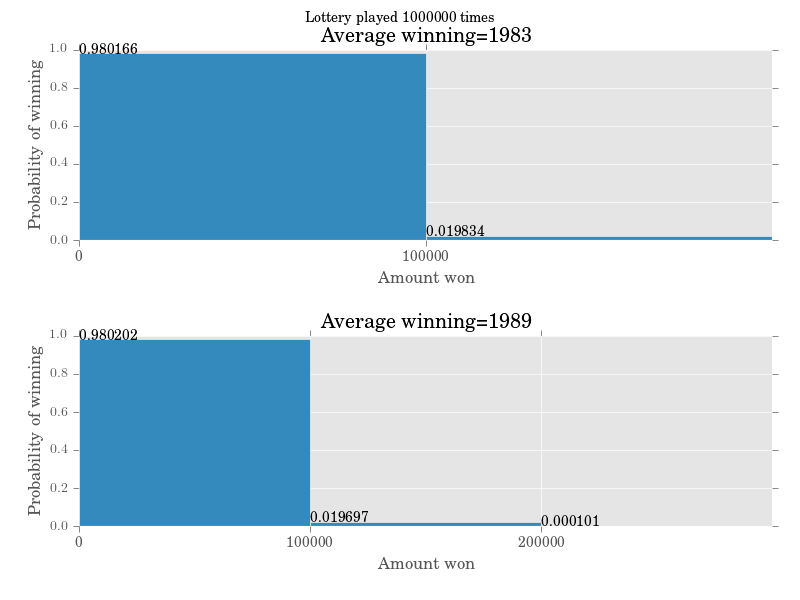
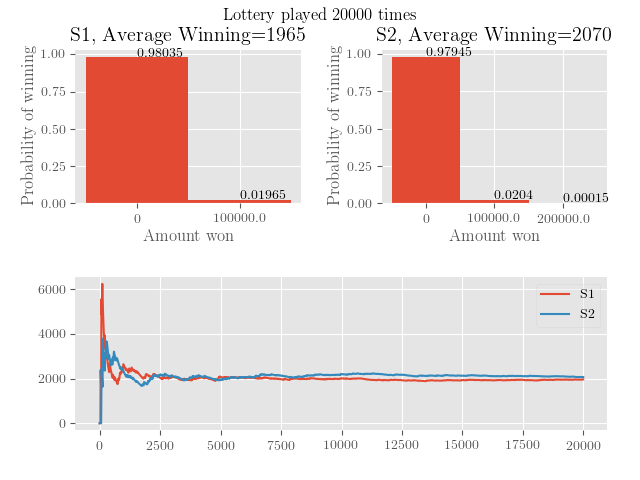
Updated.
Former-commit-id: cbf30d0710264cba28b5ddc5e854456551dec186
Former-commit-id: 6fe81443279d69d61093c123c6291625df427a49

diff --git a/TASHIP/InformationTheory2017/Tutorial1/lotteries.py b/TASHIP/InformationTheory2017/Tutorial1/lotteries.py
@@ -31,34 +31,45 @@ import numpy as np
 from collections import Counter
 
 nTickets = 100
+meanA, meanB = [0.0], [0.0]
 
-def playA( ):
+def playA( i ):
+    global meanA
     p = 1.0 / nTickets
     win = 0
     # Two tickets in the same lottery.
     for i in range( 2 ):
         if random.random( ) < p:
-            win += 100000
+            win += 100000.0
             break
+
+    meanA.append( ( i * meanA[-1] + win ) / (i+1.0) )
     return win 
 
-def playB( ):
+def playB( i ):
+    global meanB
     p = 1.0 / nTickets
     win = 0
     # Two tickets in the different lottery.
     for i in range( 2 ):
         if random.random( ) < p:
-            win += 100000
+            win += 100000.0
+
+    meanB.append( ( i * meanB[-1] + win ) / (i+1.0) )
     return win 
 
+def smooth( vec, N = 1000 ):
+    win = np.ones( N ) / N
+    return np.convolve( vec, win, 'valid' )
+
 def main( ):
-    N = 1000000
-    resA = [ playA( ) for i in range( N ) ]
-    resB = [ playB( ) for i in range( N ) ]
+    N = 20000
+    resA = [ playA( i ) for i in range( N ) ]
+    resB = [ playB( i ) for i in range( N ) ]
 
     for i, res in enumerate( [ resA, resB  ] ):
         x = Counter( res )
-        plt.subplot( 2, 1, i+1)
+        plt.subplot( 2, 2, i+1)
 
         xvec = range( len( x ) )
         yvec = np.array( x.values( ), dtype = np.float )
@@ -71,7 +82,19 @@ def main( ):
         plt.xticks( xvec, x.keys( ) )
         plt.xlabel( 'Amount won' )
         plt.ylabel( 'Probability of winning' )
-        plt.title( 'Average winning=%d' % np.mean(res) )
+        plt.title( 'S%d, Average Winning=%d' % (i+1, np.mean(res) ))
+
+    ax3 = plt.subplot( 212 )
+    xvec, meanA, meanB = [ ], [ ], [ ]
+    for i in np.arange( 1, len(resA), 10 ):
+        xvec.append( i )
+        meanA.append( np.mean( resA[:i+1] ) )
+        meanB.append( np.mean( resB[:i+1] ) )
+
+    print( 'Plotting means' )
+    ax3.plot( xvec, meanA, label = r'S1' )
+    ax3.plot( xvec, meanB, label = r'S2' )
+    ax3.legend(loc='best', framealpha=0.4)
 
     plt.suptitle( 'Lottery played %d times' % N )
     plt.tight_layout( pad = 2 )
